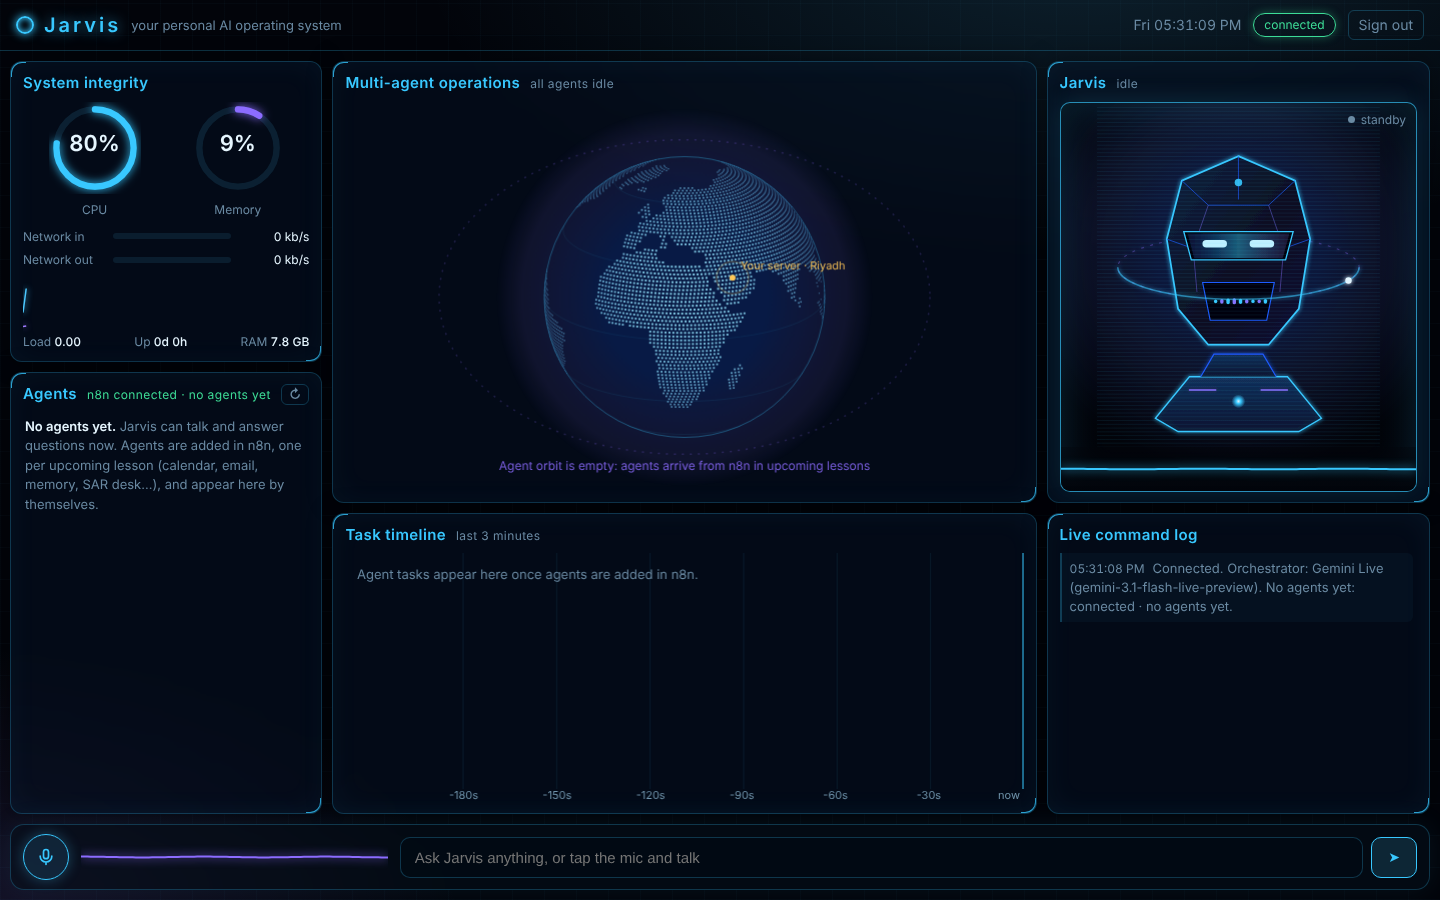
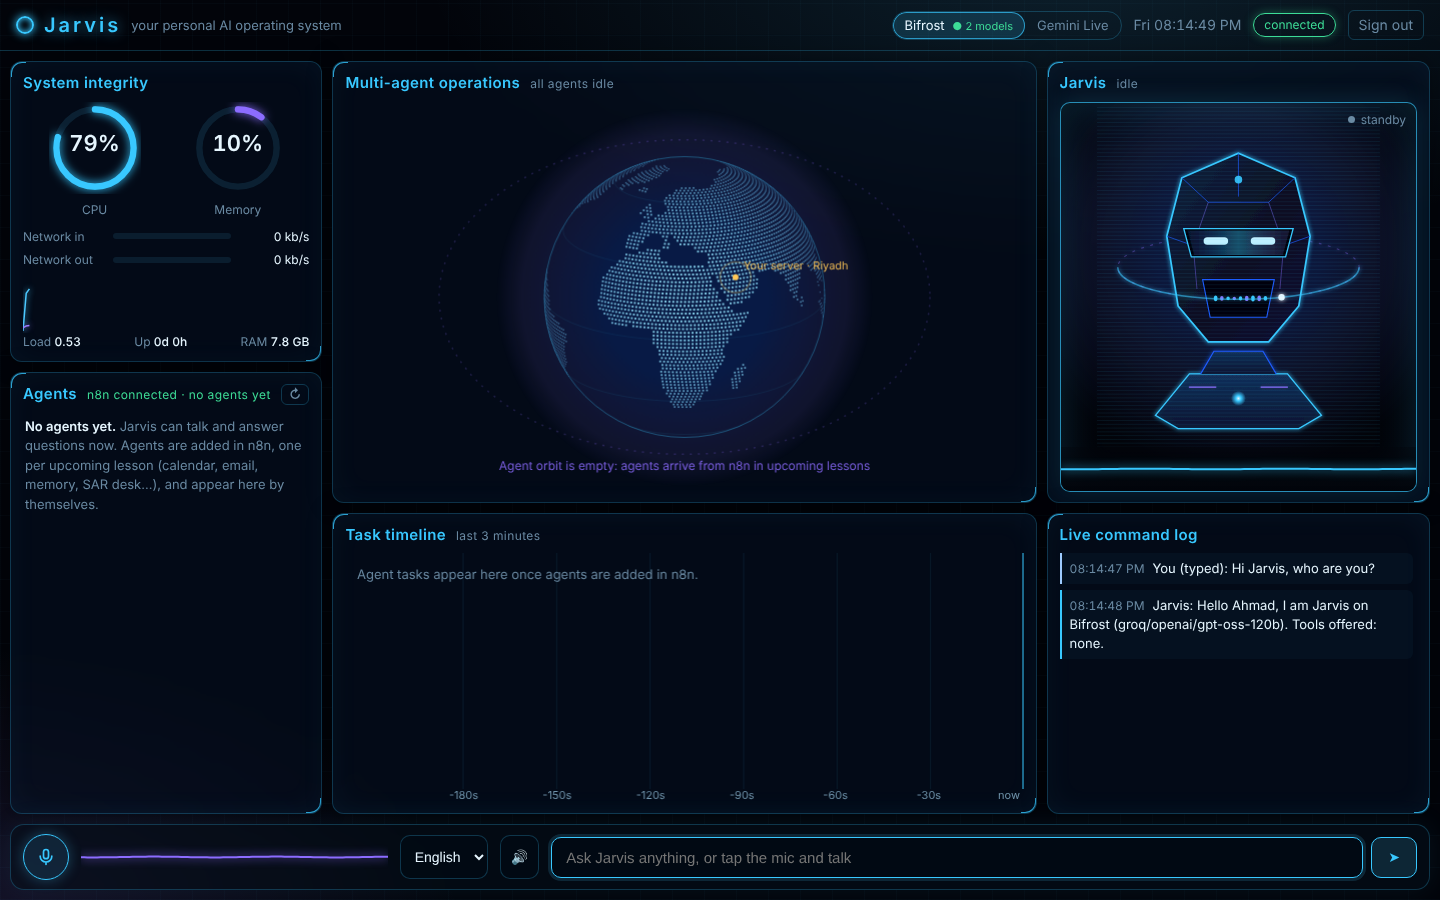
Jarvis Live thinks with Bifrost: brain switch (Bifrost default, Gemini Live for calls)
- Server: Bifrost status check, /api/chat with OpenAI-style tool calls to the n8n agents (parallel, up to 4 rounds)
- Page: brain switch with Bifrost status, typed + push-to-talk (browser speech-to-text, English/Urdu),
  replies read aloud with the sentinel animating, conversation history per page
- Installer asks for the Bifrost 'smart' key, sets CHAT_MODEL, tests jarvis-live → Bifrost; lesson 09 updated

Claude-Session: https://claude.ai/code/session_01KJj3R6Z9j3sz66Aq2yNf4M

diff --git a/stacks/live/public/app.js b/stacks/live/public/app.js
@@ -10,7 +10,8 @@ import { Globe } from '/globe.js';
 
 const WS_BASE = 'wss://generativelanguage.googleapis.com/ws/google.ai.generativelanguage.v1alpha.GenerativeService.BidiGenerateContentConstrained';
 const $ = (id) => document.getElementById(id);
-const state = { agents: [], byId: {}, tasks: [], active: new Map(), metrics: {}, hist: [], live: false, avatar: 'idle' };
+const state = { agents: [], byId: {}, tasks: [], active: new Map(), metrics: {}, hist: [], live: false, avatar: 'idle',
+  brain: localStorage.getItem('jarvis.brain') || 'bifrost', history: [], speakReplies: localStorage.getItem('jarvis.speak') !== 'off', synthLevel: 0 };
 
 // ---------------------------------------------------------------- helpers
 const fmtTime = (ts) => new Date(ts).toLocaleTimeString([], { hour: '2-digit', minute: '2-digit', second: '2-digit' });
@@ -137,10 +138,11 @@ function connectEvents() {
   const es = new EventSource('/api/events');
   es.addEventListener('hello', (e) => {
     const d = JSON.parse(e.data); $('linkState').textContent = 'connected'; $('linkState').classList.add('on');
-    setupAgents(d.agents, d.n8n); if (d.metrics?.mem !== undefined) showMetrics(d.metrics);
-    if (!$('log').children.length) { log('sys', `Connected. Orchestrator: Gemini Live (${d.model}). ${d.n8n.ok ? 'n8n ' + d.n8n.note + '.' : d.n8n.note + '.'}`); for (const ev of d.recent) if (ev.type === 'agent' && Date.now() - ev.ts < 3 * 60e3) agentActivity(ev); }
+    setupAgents(d.agents, d.n8n); showBifrost(d.bifrost); if (d.metrics?.mem !== undefined) showMetrics(d.metrics);
+    if (!$('log').children.length) { log('sys', `Connected. Brain: ${state.brain === 'bifrost' ? 'Bifrost (' + (d.bifrost?.note || '…') + ')' : 'Gemini Live (' + d.model + ')'}. ${d.n8n.ok ? 'n8n ' + d.n8n.note + '.' : d.n8n.note + '.'}`); for (const ev of d.recent) if (ev.type === 'agent' && Date.now() - ev.ts < 3 * 60e3) agentActivity(ev); }
   });
   es.addEventListener('agents', (e) => { const d = JSON.parse(e.data); setupAgents(d.agents, d.n8n); log('sys', `Agent list updated: n8n ${d.n8n.note}.`); });
+  es.addEventListener('bifrost', (e) => { const d = JSON.parse(e.data); showBifrost(d.bifrost); log('sys', `Bifrost: ${d.bifrost.note}.`); });
   es.addEventListener('metrics', (e) => showMetrics(JSON.parse(e.data)));
   es.addEventListener('agent', (e) => agentActivity(JSON.parse(e.data)));
   es.addEventListener('alert', (e) => {
@@ -192,10 +194,11 @@ function brightness() {                       // share of high frequencies: "ee/
   return lo + hi ? Math.min(1, (hi / (lo + hi)) * 2.2) : 0.5;
 }
 function frame(t) {
-  const speaking = audio.sources.size > 0;
-  const outRms = drawWave($('avWave'), speaking ? audio.outAnalyser : null, '#38c8ff', state.live ? 0.04 : 0.015);
+  const speaking = audio.sources.size > 0, synth = speechSynthesis.speaking;
+  const outRms = drawWave($('avWave'), speaking ? audio.outAnalyser : null, '#38c8ff', synth ? 0.35 * state.synthLevel + 0.05 : state.live ? 0.04 : 0.015);
   drawWave($('dockWave'), speaking ? audio.outAnalyser : audio.micAnalyser, speaking ? '#38c8ff' : '#8c6cff', 0.02);
-  twin.update(t, speaking ? Math.min(1, outRms * 6) : 0, speaking ? brightness() : 0.5);
+  if (synth) state.synthLevel += ((0.35 + 0.45 * Math.abs(Math.sin(t / 95)) * (0.6 + 0.4 * Math.sin(t / 37))) - state.synthLevel) * 0.3;
+  twin.update(t, speaking ? Math.min(1, outRms * 6) : synth ? state.synthLevel : 0, speaking ? brightness() : 0.4 + 0.3 * Math.sin(t / 140));
   globe.draw(t);
   requestAnimationFrame(frame);
 }
@@ -277,10 +280,82 @@ function sendText(text, system = false) {
   session.ws.send(JSON.stringify({ realtimeInput: { text } }));
   if (!system) setAvatar('thinking');
 }
-$('talk').addEventListener('click', () => (state.live ? stopLive() : startLive()));
+// ---------------------------------------------------------------- Bifrost brain (text + push-to-talk)
+function showBifrost(b) { if (!b) return; const el = $('bifrostState'); el.textContent = b.ok ? '● ' + b.note.replace('connected · ', '') : '● ' + b.note; el.className = b.ok ? 'ok' : 'bad'; el.title = b.ok ? `model ${b.model}` : b.note; }
+function setBrain(b) {
+  if (b === state.brain) return;
+  if (state.live) stopLive();
+  stopListening(); speechSynthesis.cancel();
+  state.brain = b; try { localStorage.setItem('jarvis.brain', b); } catch {}
+  document.querySelectorAll('.brain button').forEach((x) => x.setAttribute('aria-checked', String(x.dataset.brain === b)));
+  log('sys', b === 'bifrost' ? 'Brain: Bifrost (your free models). Type, or tap the mic and speak.' : 'Brain: Gemini Live. Tap the mic for a real-time voice call.');
+}
+document.querySelectorAll('.brain button').forEach((x) => x.addEventListener('click', () => setBrain(x.dataset.brain)));
+document.querySelectorAll('.brain button').forEach((x) => x.setAttribute('aria-checked', String(x.dataset.brain === state.brain)));
+$('lang').value = localStorage.getItem('jarvis.lang') || 'en-US';
+$('lang').addEventListener('change', () => { try { localStorage.setItem('jarvis.lang', $('lang').value); } catch {} });
+const speakBtn = $('speakToggle'); speakBtn.setAttribute('aria-pressed', String(state.speakReplies));
+speakBtn.addEventListener('click', () => { state.speakReplies = !state.speakReplies; speakBtn.setAttribute('aria-pressed', String(state.speakReplies)); if (!state.speakReplies) speechSynthesis.cancel(); try { localStorage.setItem('jarvis.speak', state.speakReplies ? 'on' : 'off'); } catch {} });
+
+function speak(text) {
+  if (!state.speakReplies || !('speechSynthesis' in window)) { setAvatar('idle'); return; }
+  speechSynthesis.cancel();
+  const urdu = /[\u0600-\u06FF]/.test(text);
+  const u = new SpeechSynthesisUtterance(text.replace(/[*_#`>|]/g, ' ').replace(/\[(\d+)\]/g, ''));
+  const voices = speechSynthesis.getVoices();
+  const want = urdu ? ['ur', 'hi'] : [($('lang').value || 'en').slice(0, 2), 'en'];
+  u.voice = want.map((l) => voices.find((v) => v.lang.toLowerCase().startsWith(l))).find(Boolean) || null;
+  u.lang = u.voice?.lang || (urdu ? 'ur-PK' : 'en-US'); u.rate = 1.02;
+  u.onstart = () => setAvatar('speaking'); u.onend = u.onerror = () => setAvatar('idle');
+  speechSynthesis.speak(u);
+}
+let busy = false;
+async function askBifrost(text) {
+  if (busy) return; busy = true;
+  state.history.push({ role: 'user', content: text });
+  setAvatar('thinking'); const t0 = performance.now();
+  try {
+    const r = await fetch('/api/chat', { method: 'POST', headers: { 'Content-Type': 'application/json' }, body: JSON.stringify({ history: state.history }) });
+    if (r.status === 401) { location.reload(); return; }
+    const j = await r.json();
+    if (!r.ok) throw new Error(j.error || `server ${r.status}`);
+    state.history.push({ role: 'assistant', content: j.reply });
+    if (state.history.length > 30) state.history.splice(0, state.history.length - 30);
+    log('jarvis', `Jarvis: ${j.reply}`).title = `${j.model} · ${Math.round(performance.now() - t0)} ms`;
+    speak(j.reply);
+  } catch (e) { state.history.pop(); log('err', `Bifrost: ${e.message}`); setAvatar('idle'); }
+  finally { busy = false; }
+}
+
+// push-to-talk for the Bifrost brain: the browser turns speech into text (Chrome, Edge, Android, Safari)
+const SR = window.SpeechRecognition || window.webkitSpeechRecognition;
+let rec = null;
+function stopListening() { if (rec) { try { rec.abort(); } catch {} rec = null; } $('talk').classList.remove('on'); $('liveDot').textContent = 'standby'; $('liveDot').classList.remove('on'); }
+function listenOnce() {
+  if (!SR) { log('err', "This browser can't turn speech into text. Use Chrome or Edge, type instead, or switch to Gemini Live."); return; }
+  if (rec) { stopListening(); setAvatar('idle'); return; }
+  speechSynthesis.cancel();
+  rec = new SR(); rec.lang = $('lang').value; rec.interimResults = true; rec.maxAlternatives = 1;
+  let line = null, finalText = '';
+  rec.onresult = (e) => {
+    let interim = ''; finalText = '';
+    for (const r of e.results) (r.isFinal ? (finalText += r[0].transcript) : (interim += r[0].transcript));
+    line = line || log('you', 'You: '); line.lastChild.textContent = 'You: ' + (finalText || interim);
+  };
+  rec.onerror = (e) => { if (e.error !== 'aborted') log('err', e.error === 'not-allowed' ? 'Microphone blocked: allow it in the browser’s site settings.' : `Speech recognition: ${e.error}`); };
+  rec.onend = () => { const said = finalText.trim(); stopListening(); if (said) askBifrost(said); else setAvatar('idle'); };
+  rec.start(); setAvatar('listening');
+  $('talk').classList.add('on'); $('liveDot').textContent = 'listening'; $('liveDot').classList.add('on');
+}
+
+$('talk').addEventListener('click', () => {
+  if (state.brain === 'bifrost') return listenOnce();
+  return state.live ? stopLive() : startLive();
+});
 $('cmdForm').addEventListener('submit', (e) => {
   e.preventDefault(); const v = $('cmd').value.trim(); if (!v) return;
-  log('you', `You (typed): ${v}`); $('cmd').value = ''; sendText(v);
+  log('you', `You (typed): ${v}`); $('cmd').value = '';
+  if (state.brain === 'bifrost' && !state.live) askBifrost(v); else sendText(v);
 });
 
 // ---------------------------------------------------------------- resizable panels (drag the thin gutters)
@@ -304,5 +379,5 @@ document.querySelectorAll('.gutter').forEach((g) => {
 
 $('refreshAgents').addEventListener('click', async () => {
   const r = await fetch('/api/agents/refresh', { method: 'POST' }); if (!r.ok) return;
-  const d = await r.json(); setupAgents(d.agents, d.n8n); log('sys', `Asked n8n for agents: ${d.n8n.ok ? 'n8n ' : ''}${d.n8n.note}.`);
+  const d = await r.json(); setupAgents(d.agents, d.n8n); showBifrost(d.bifrost); log('sys', `Asked n8n for agents: ${d.n8n.ok ? 'n8n ' : ''}${d.n8n.note}.`);
 });

diff --git a/stacks/live/public/hud.css b/stacks/live/public/hud.css
@@ -31,6 +31,15 @@ button { font: inherit; color: inherit; cursor: pointer; }
 .pill.on { color: var(--green); border-color: var(--green); box-shadow: 0 0 10px rgba(61,220,151,.35); }
 .ghost { background: none; border: 1px solid var(--line); border-radius: 6px; padding: 4px 10px; color: var(--muted); }
 
+/* brain switch */
+.brain { display: flex; border: 1px solid var(--line); border-radius: 99px; overflow: hidden; }
+.brain button { background: none; border: 0; padding: 4px 12px; color: var(--muted); font-size: 13px; }
+.brain button[aria-checked="true"] { background: rgba(56,200,255,.16); color: var(--text); box-shadow: inset 0 0 0 1px var(--line-hi); border-radius: 99px; }
+.brain small { font-size: 11px; color: var(--muted); margin-left: 4px; }
+.brain small.ok { color: var(--green); } .brain small.bad { color: var(--amber); }
+.lang, .speak { background: rgba(0,10,20,.55); border: 1px solid var(--line); border-radius: 10px; color: var(--text); height: 44px; padding: 0 10px; font-size: 14px; }
+.speak[aria-pressed="false"] { opacity: .45; }
+
 /* layout: resizable columns and rows */
 .hud { flex: 1; display: flex; gap: 0; padding: 10px; min-height: 0; }
 .col { display: flex; flex-direction: column; min-width: 180px; min-height: 0; }
@@ -137,7 +146,8 @@ button { font: inherit; color: inherit; cursor: pointer; }
   .panel, #pGraph, #pGantt, #pAvatar, #pLog, #pAgents { flex: none !important; height: auto !important; }
   #pAvatar { height: 420px !important; }
   #pAvatar { min-height: 400px; } #pLog { height: 300px !important; } #pGraph { height: 340px !important; } #pGantt { height: 240px !important; } #pAgents { max-height: 360px; }
-  #clock { display: none; }
+  #clock { display: none; } .top-right { flex-wrap: wrap; justify-content: flex-end; } .topbar { gap: 8px; } .brand em { display: none; }
+  .dock { flex-wrap: wrap; } .lang, .speak { height: 40px; }
   .dock { position: sticky; bottom: 0; } .dock-wave { display: none; }
   .brand em { display: none; }
 }

diff --git a/stacks/live/public/index.html b/stacks/live/public/index.html
@@ -14,6 +14,10 @@
 <header class="topbar">
   <div class="brand"><span class="logo"></span>Jarvis <em>your personal AI operating system</em></div>
   <div class="top-right">
+    <div class="brain" role="radiogroup" aria-label="Who answers">
+      <button type="button" role="radio" data-brain="bifrost" aria-checked="true">Bifrost <small id="bifrostState">checking…</small></button>
+      <button type="button" role="radio" data-brain="live" aria-checked="false">Gemini Live</button>
+    </div>
     <span id="clock" class="num"></span>
     <span id="linkState" class="pill">offline</span>
     <form method="post" action="/logout"><button class="ghost" type="submit">Sign out</button></form>
@@ -78,6 +82,10 @@
 <footer class="dock">
   <button id="talk" class="mic" aria-label="Start voice"><svg viewBox="0 0 24 24" width="20" height="20" fill="none" stroke="currentColor" stroke-width="2" stroke-linecap="round"><rect x="9" y="3" width="6" height="11" rx="3"/><path d="M5 11a7 7 0 0 0 14 0M12 18v3"/></svg></button>
   <canvas id="dockWave" class="dock-wave" height="48"></canvas>
+  <select id="lang" class="lang" aria-label="Language you speak">
+    <option value="en-US">English</option><option value="ur-PK">اردو</option>
+  </select>
+  <button id="speakToggle" class="speak" type="button" aria-pressed="true" title="Read Bifrost replies aloud">🔊</button>
   <form id="cmdForm" class="cmd">
     <input id="cmd" autocomplete="off" placeholder="Ask Jarvis anything, or tap the mic and talk">
     <button type="submit" class="send" aria-label="Send">➤</button>

diff --git a/README.md b/README.md
@@ -25,7 +25,7 @@ Full plan: **[docs/roadmap.md](docs/roadmap.md)** · Why it's built this way: **
       │                   also serves my separate SAR→PKR calculator site, untouched
       ├── Docker ........ every app in its own container (autoheal restarts frozen ones)
       ├── n8n ........... Jarvis's skills and routines (owner login + 2FA)
-      ├── Jarvis Live ... HUD dashboard: AI sentinel, globe, live voice; shows the agents n8n provides
+      ├── Jarvis Live ... HUD dashboard: thinks with Bifrost (free models) or Gemini Live; uses the agents n8n provides
       ├── Bifrost ....... AI switchboard: free providers and models added in a web page,
       │                   automatic fallback; n8n reaches it privately at http://bifrost:8080/v1
       └── backups ....... nightly .zip in /data/backups (14 kept) + a copy on the laptop now and then
@@ -73,7 +73,7 @@ Full plan: **[docs/roadmap.md](docs/roadmap.md)** · Why it's built this way: **
 | 06 | [n8n: the engine behind every skill, online and safe](lessons/06-n8n.md) | ✅ Tested |
 | 07 | [Jarvis on Telegram: text and voice in and out, with free backups](lessons/07-telegram-jarvis-voice.md) | ✅ Tested (Gemini speaking backup: Written) |
 | 08 | [Backups: nightly .zip files on the server](lessons/08-backups-monitoring.md) | ⚠ Written, not installed yet: **do next** |
-| 09 | [Jarvis Live: the dashboard of your personal AI OS — AI sentinel, globe, live voice, connected to n8n](lessons/09-jarvis-live.md) | ⚠ Tested locally, first run on the server pending |
+| 09 | [Jarvis Live: the dashboard of your personal AI OS — Bifrost brain, Gemini Live voice, AI sentinel, connected to n8n](lessons/09-jarvis-live.md) | ⚠ Tested locally, first run on the server pending |
 
 **Part 3 — Jarvis's hands (my Windows laptop)**
 

diff --git a/docs/roadmap.md b/docs/roadmap.md
@@ -34,7 +34,7 @@ Rules for the whole course:
 | 06 | **n8n online and safe**: Apache, HTTPS, login + 2FA, fail2ban, next to the SAR site | The engine every Jarvis skill runs on, reachable anywhere |
 | 07 | **Jarvis on Telegram**: instant trigger, ElevenLabs ears and voice, free Gemini backups | Text or voice → Jarvis answers in text, and in voice when spoken to |
 | 08 | **Backups**: nightly .zip in `/data/backups` on the server, a copy on the laptop now and then | Undo any mistake; survive losing the VM |
-| 09 | **Jarvis Live**: holographic dashboard with an AI sentinel avatar; Gemini Live orchestrates; agents come from n8n (none yet) | Talk to Jarvis; every agent built later appears here by itself |
+| 09 | **Jarvis Live**: holographic dashboard with an AI sentinel; brains Bifrost (free models, default) and Gemini Live (voice calls); agents come from n8n (none yet) | Talk to Jarvis; every agent built later appears here by itself |
 
 ## Part 3 — Jarvis's hands (my Windows laptop)
 

diff --git a/docs/decisions.md b/docs/decisions.md
@@ -172,3 +172,10 @@ Single node, no public HTTPS needed (Tailscale gives certificates), and RAM goes
   The starter workflow `jarvis-agents.json` lists none. With no agents, Jarvis is told not to pretend to act.
 - Built-in AI agents (Web Scout, Writer, Analyst, Planner) and the Bifrost key prompt removed; future AI agents are
   built in n8n with Bifrost models, so Telegram and Live share the same agents.
+
+## 2026-11-20 — Jarvis thinks with Bifrost
+
+- User asked that Jarvis communicate through Bifrost (Lesson 05). Jarvis Live now has **two brains**, chosen at the top:
+  **Bifrost** (default: free models with fallback; text, browser speech-to-text in English/Urdu, replies read aloud by the
+  device) and **Gemini Live** (real-time voice calls). Both call the same n8n agents (OpenAI-style tool calls through Bifrost).
+- The Bifrost key and `CHAT_MODEL` live only in `~/lab/live/.env`; the browser never sees them. Claude later = one Bifrost model.

diff --git a/PROGRESS.md b/PROGRESS.md
@@ -2,6 +2,11 @@
 
 Newest entries at the top.
 
+## 2026-11-20 — Jarvis thinks with Bifrost
+
+- Brain switch on the dashboard: **Bifrost** (default, your free models; type or speak, replies read aloud) or **Gemini Live** (voice calls). Both use the agents from n8n
+- Tested locally with stand-in Bifrost and n8n: plain answers, and an answer that called an n8n agent. Pending: install and first run on the server
+
 ## 2026-11-20 — Jarvis Live: AI sentinel avatar, agents only from n8n
 
 - Avatar is now an original **AI sentinel** (no face). Dashboard ships with **no agents**: it shows "n8n connected · no agents yet" and Jarvis talks without pretending to act
